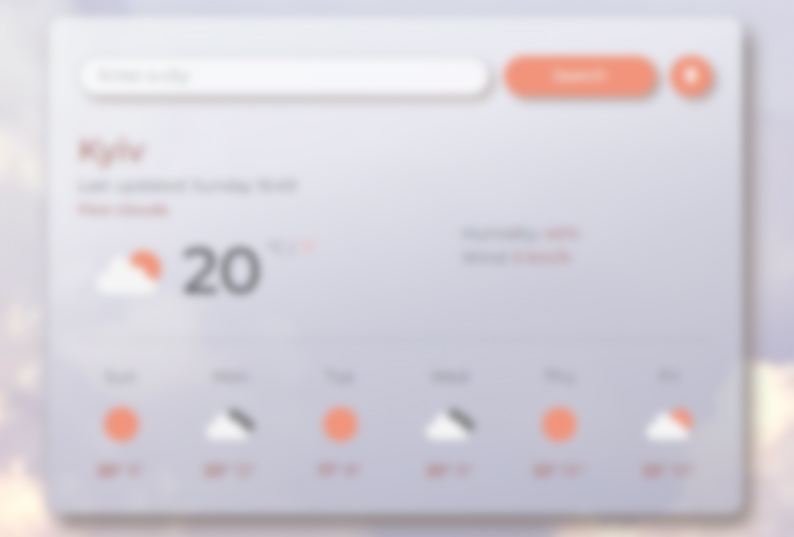
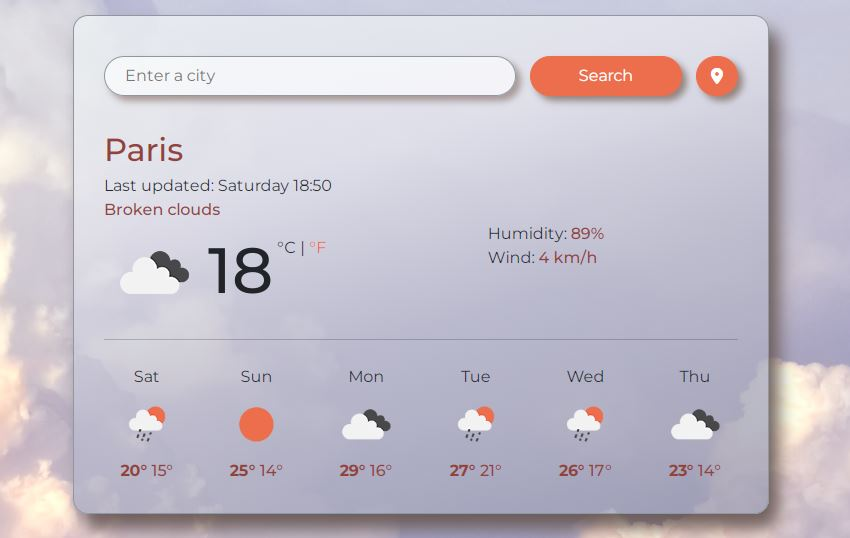
Added work page with content

diff --git a/work.html b/work.html
@@ -1,0 +1,106 @@
+<!DOCTYPE html>
+<html lang="en">
+  <head>
+    <meta charset="UTF-8" />
+    <meta http-equiv="X-UA-Compatible" content="IE=edge" />
+    <meta name="viewport" content="width=device-width, initial-scale=1.0" />
+    <title>Document</title>
+
+    <link rel="stylesheet" href="/src/style.css" />
+    <link
+      href="https://cdn.jsdelivr.net/npm/bootstrap@5.2.0/dist/css/bootstrap.min.css"
+      rel="stylesheet"
+      integrity="sha384-gH2yIJqKdNHPEq0n4Mqa/HGKIhSkIHeL5AyhkYV8i59U5AR6csBvApHHNl/vI1Bx"
+      crossorigin="anonymous"
+    />
+    <link rel="preconnect" href="https://fonts.googleapis.com" />
+    <link rel="preconnect" href="https://fonts.gstatic.com" crossorigin />
+    <link
+      href="https://fonts.googleapis.com/css2?family=Manrope:wght@400;700&family=Nunito:wght@300;400;700&display=swap"
+      rel="stylesheet"
+    />
+
+    <script
+      src="https://cdn.jsdelivr.net/npm/bootstrap@5.2.0/dist/js/bootstrap.bundle.min.js"
+      integrity="sha384-A3rJD856KowSb7dwlZdYEkO39Gagi7vIsF0jrRAoQmDKKtQBHUuLZ9AsSv4jD4Xa"
+      crossorigin="anonymous"
+    ></script>
+    <script
+      src="https://kit.fontawesome.com/1728445f79.js"
+      crossorigin="anonymous"
+    ></script>
+  </head>
+  <body>
+    <div class="hero-image">
+      <div class="hero">
+        <h1>My <span class="primary-color">work</span></h1>
+        <p>Projects, digital and traditional illustrations</p>
+      </div>
+    </div>
+    <div class="content-container">
+      <h2 class="text-center">Coding</h2>
+      <div class="container">
+        <div class="row mt-4">
+          <div class="col-md-6">
+            <img
+              src="/images/weather.JPG"
+              alt="weather app"
+              class="img-fluid shadow p-3"
+            />
+            <h3 class="text-center mt-2 mb-0">Weather project</h3>
+            <p class="text-center">HTML, CSS and JavaScript</p>
+          </div>
+        </div>
+      </div>
+      <h2 class="text-center mt-5">Traditional art</h2>
+      <div class="container arts">
+        <div class="row mt-4">
+          <div class="d-flex d-lg-block col-lg-6 justify-content-center">
+            <img src="/images/w-1.jpg" class="img-fluid shadow p-3 mb-4" />
+          </div>
+          <div
+            class="d-flex d-lg-block col-lg-6 flex-column justify-content-center"
+          >
+            <img src="/images/w-2.jpg" class="img-fluid shadow p-3 mb-4" />
+            <img src="/images/w-3.jpg" class="img-fluid shadow p-3 mb-4" />
+          </div>
+        </div>
+        <div class="row">
+          <div class="d-flex d-lg-block col-lg-6 justify-content-center">
+            <img src="/images/w-4.jpg" class="img-fluid shadow p-3 mb-4" />
+          </div>
+          <div
+            class="d-flex col-lg-6 justify-content-center justify-content-lg-end"
+          >
+            <img src="/images/w-5.jpg" class="img-fluid shadow p-3 mb-4" />
+          </div>
+        </div>
+      </div>
+      <h2 class="text-center mt-5">Didgital art</h2>
+      <div class="container arts">
+        <div class="row mt-4">
+          <div class="d-flex d-lg-block col-lg-6 justify-content-center">
+            <img src="/images/dw-1.jpg" class="img-fluid shadow p-3 mb-4" />
+          </div>
+          <div
+            class="d-flex col-lg-6 flex-column justify-content-center justify-content-lg-end"
+          >
+            <img src="/images/dw-5.jpg" class="img-fluid shadow p-3 mb-4" />
+            <img src="/images/dw-4.jpg" class="img-fluid shadow p-3 mb-4" />
+          </div>
+        </div>
+        <div class="row">
+          <div class="d-flex d-lg-block col-lg-6 justify-content-center">
+            <img src="/images/dw-3.jpg" class="img-fluid shadow p-3 mb-4" />
+          </div>
+          <div
+            class="d-flex col-lg-6 justify-content-center justify-content-lg-end"
+          >
+            <img src="/images/dw-2.jpg" class="img-fluid shadow p-3 mb-4" />
+          </div>
+        </div>
+      </div>
+    </div>
+    <footer></footer>
+  </body>
+</html>

diff --git a/index.html b/index.html
@@ -47,7 +47,7 @@
     <div class="container">
       <div class="row mt-5">
         <div class="d-none d-lg-block col-lg-6">
-          <img src="/images/weather.jpg" class="img-fluid shadow p-3" />
+          <img src="/images/weather-blur.jpg" class="img-fluid shadow p-3" />
         </div>
         <div class="col-lg-6 description">
           <h2>Weather App</h2>

diff --git a/src/style.css b/src/style.css
@@ -84,7 +84,8 @@ h3 {
   padding: 50px 30px 0 !important;
 }
 
-.description h2 {
+.description h2,
+.content-container h2 {
   font-size: 40px;
 }
 
@@ -98,6 +99,10 @@ h3 {
 .content-container {
   margin: 80px auto;
   padding: 0 20px !important;
+}
+
+.arts {
+  max-width: 1000px !important;
 }
 
 footer {
